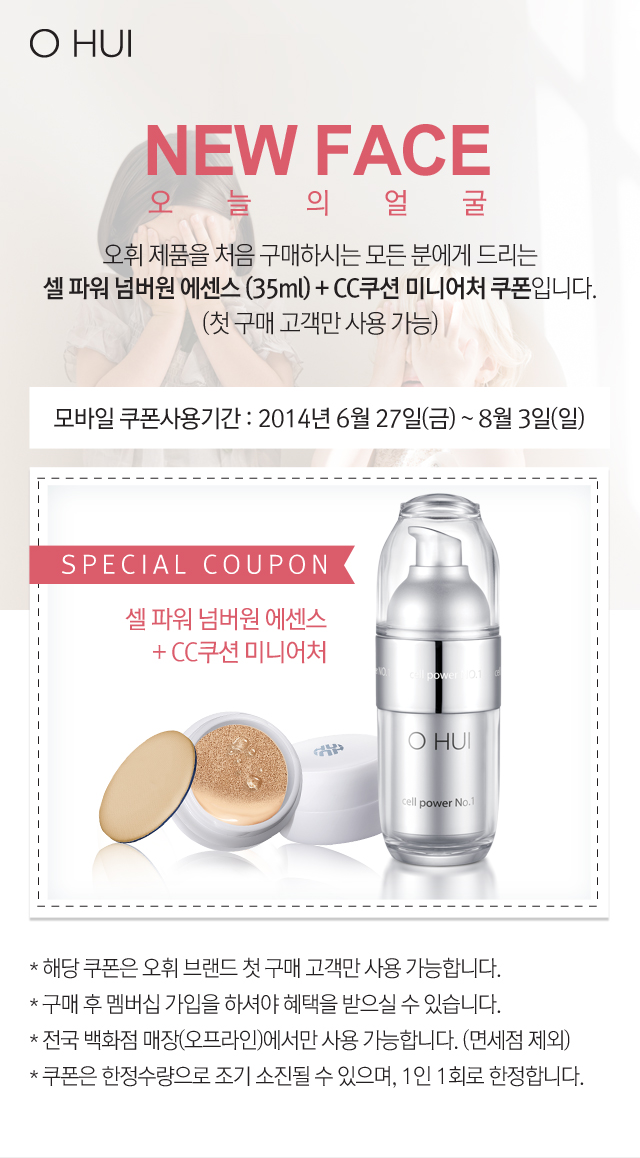
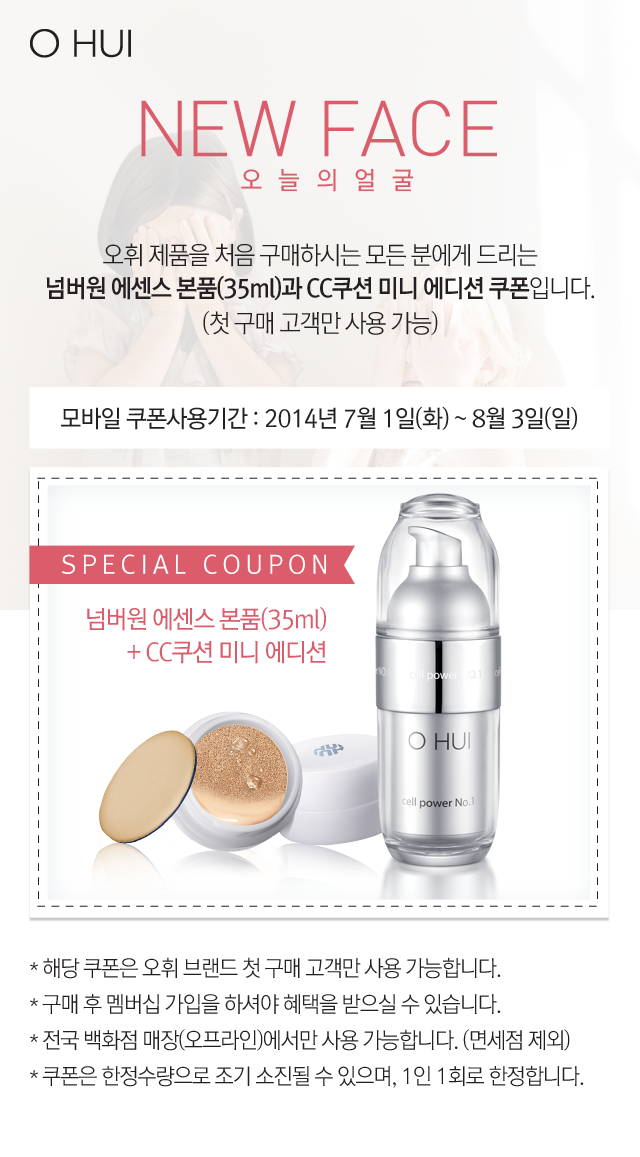
이미지 수

diff --git a/app/assets/stylesheets/mobile/home_controller.css.scss b/app/assets/stylesheets/mobile/home_controller.css.scss
@@ -53,7 +53,7 @@ img {border:0}
 	width: 100%;
 	position:absolute;
 	z-index:2;
-	margin-top:33%;
+	margin-top:112%;
 }
 .img_bg{
 	width: 100%;
@@ -69,7 +69,7 @@ img {border:0}
 	width: 100%;
 }
 .container-btn_gift{
-	padding:0 22%;
+	padding:0 5%;
 }
 .container-btn_gift .btn_gift{
 	width:100%;
@@ -80,14 +80,14 @@ img {border:0}
 .container-view {
 	position:relative;
 	width:100%;
-	padding-top:115%;
-	margin-bottom:14%;
+	padding-top:20%;
+	margin-bottom:6%;
 	.container-product-detail{
 		position:absolute;
 		top:83%;
 		left:5%;
 		a img{
-			width:50%;
+			width:60%;
 		}
 	}
 }
@@ -102,6 +102,7 @@ img {border:0}
 }
 
 .container-sns{
+	margin-top:25%;
 	padding:0 5% ;
 	div{
 		padding:1% 0;
@@ -142,8 +143,8 @@ img {border:0}
 		position:absolute;
 		width: 23%;
 		z-index:2;
-		left:4%;
-		top:73%;
+		left:5%;
+		top:77%;
 		a{
 			display:block;
 			width:100%;
@@ -190,7 +191,7 @@ img {border:0}
 	background: asset-url("mobile/popup/bg_common.png");
 
   .popup-birthday_text-top {
-    margin:30px 0 10px;
+    margin:30px 0 0;
 	text-align:center;
 	img{
 	 width: 55%;
@@ -202,6 +203,7 @@ img {border:0}
 		margin: 0 auto;
 		padding: 3%;
 		background: #fff;
+		display:none;
 		
 		.container-text-top2{
 			text-align:center;	
@@ -253,9 +255,9 @@ img {border:0}
 	}
 	.container-text-guide{
 		text-align:center;
-		padding:10px 0 0;
+		padding:0 0 15px;
 		img{
-			width:65%;
+			width:90%;
 		}
   	
 	}

diff --git a/app/assets/stylesheets/pc/style.css.scss b/app/assets/stylesheets/pc/style.css.scss
@@ -51,7 +51,7 @@ img{
 }
 
 .c_title{
-	padding:18px 0 3px;
+	padding:18px 0 23px;
 	text-align: center;
 }
 
@@ -169,6 +169,7 @@ img{
 .info_other{
   width: 369px;
   margin-left: 41px;
+  margin-top:100px;
   margin-bottom:15px;
   text-align: left;
 }
@@ -549,6 +550,7 @@ margin-top:6px;
   margin-bottom: 40px;
   margin-top:140px;
   padding-top:11px;
+  display:none;
 //  padding-left:125px;
 }
 

diff --git a/app/models/message.rb b/app/models/message.rb
@@ -7,7 +7,7 @@ class Message < ActiveRecord::Base
     message.send_phone = Rails.application.secrets.send_phone
     message.dest_phone = coupon.user.phone
     message.msg_body = self.send_message(coupon)
-    message.subject = "Skin Birthday"
+    message.subject = "NEW FACE"
     message.send_name = coupon.user.name
     message.sent_at = Time.now + 5.seconds
     message.save
@@ -23,7 +23,7 @@ class Message < ActiveRecord::Base
     message.send_phone = Rails.application.secrets.send_phone
     message.dest_phone = coupon.user.phone 
     message.msg_body = self.send_retention(coupon)
-    message.subject = "Skin Birthday"
+    message.subject = "NEW FACE"
     message.send_name = coupon.user.name
     message.sent_at = Time.now + 5.seconds
     message.save
@@ -41,7 +41,7 @@ class Message < ActiveRecord::Base
     message.send_phone = Rails.application.secrets.send_phone
     message.dest_phone = user.phone 
     message.msg_body = self.send_survey(user)
-    message.subject = "Skin Birthday"
+    message.subject = "NEW FACE"
     message.send_name = user.name
     message.sent_at = Time.now + 2.seconds
     message.save
@@ -139,7 +139,8 @@ https://birthday.su-m37.co.kr/survey?p="+phone+"
 CC쿠션 미니어처 쿠폰 사용 기간이 
 이제 6일 남았어요.
 
-쿠폰 사용기간 : ~ 8월 3일(일)
+쿠폰 사용기간 :
+2014.7.1(화)~2014.8.3(일)
 
 쿠폰받기: //ohui-newface.co.kr/"+coupon.code+"
  
@@ -152,16 +153,14 @@ CC쿠션 미니어처 쿠폰 사용 기간이
   
   def self.send_message(coupon)
     "
-"+coupon.user.name+"님께
-오늘부터 
-새로운 얼굴을
-선물합니다.
-셀 파워 넘버원 
-에센스(35ml)와
-CC쿠션 미니어처를 
-오휘에서 드려요!
+"+coupon.user.name+"님
+오휘를 처음 만난 오늘부터
+아름다워질거예요
 
-쿠폰 사용기간 : ~ 8월 3일(일)
+새로운 NEW FACE를 위해 넘버원 에센스 본품(35ml)과 CC쿠션 미니 에디션을 드립니다.
+
+쿠폰 사용기간 :
+2014.7.1(화)~2014.8.3(일)
 
 쿠폰받기:
 " + Rails.application.secrets.url + "/" + coupon.code + "
